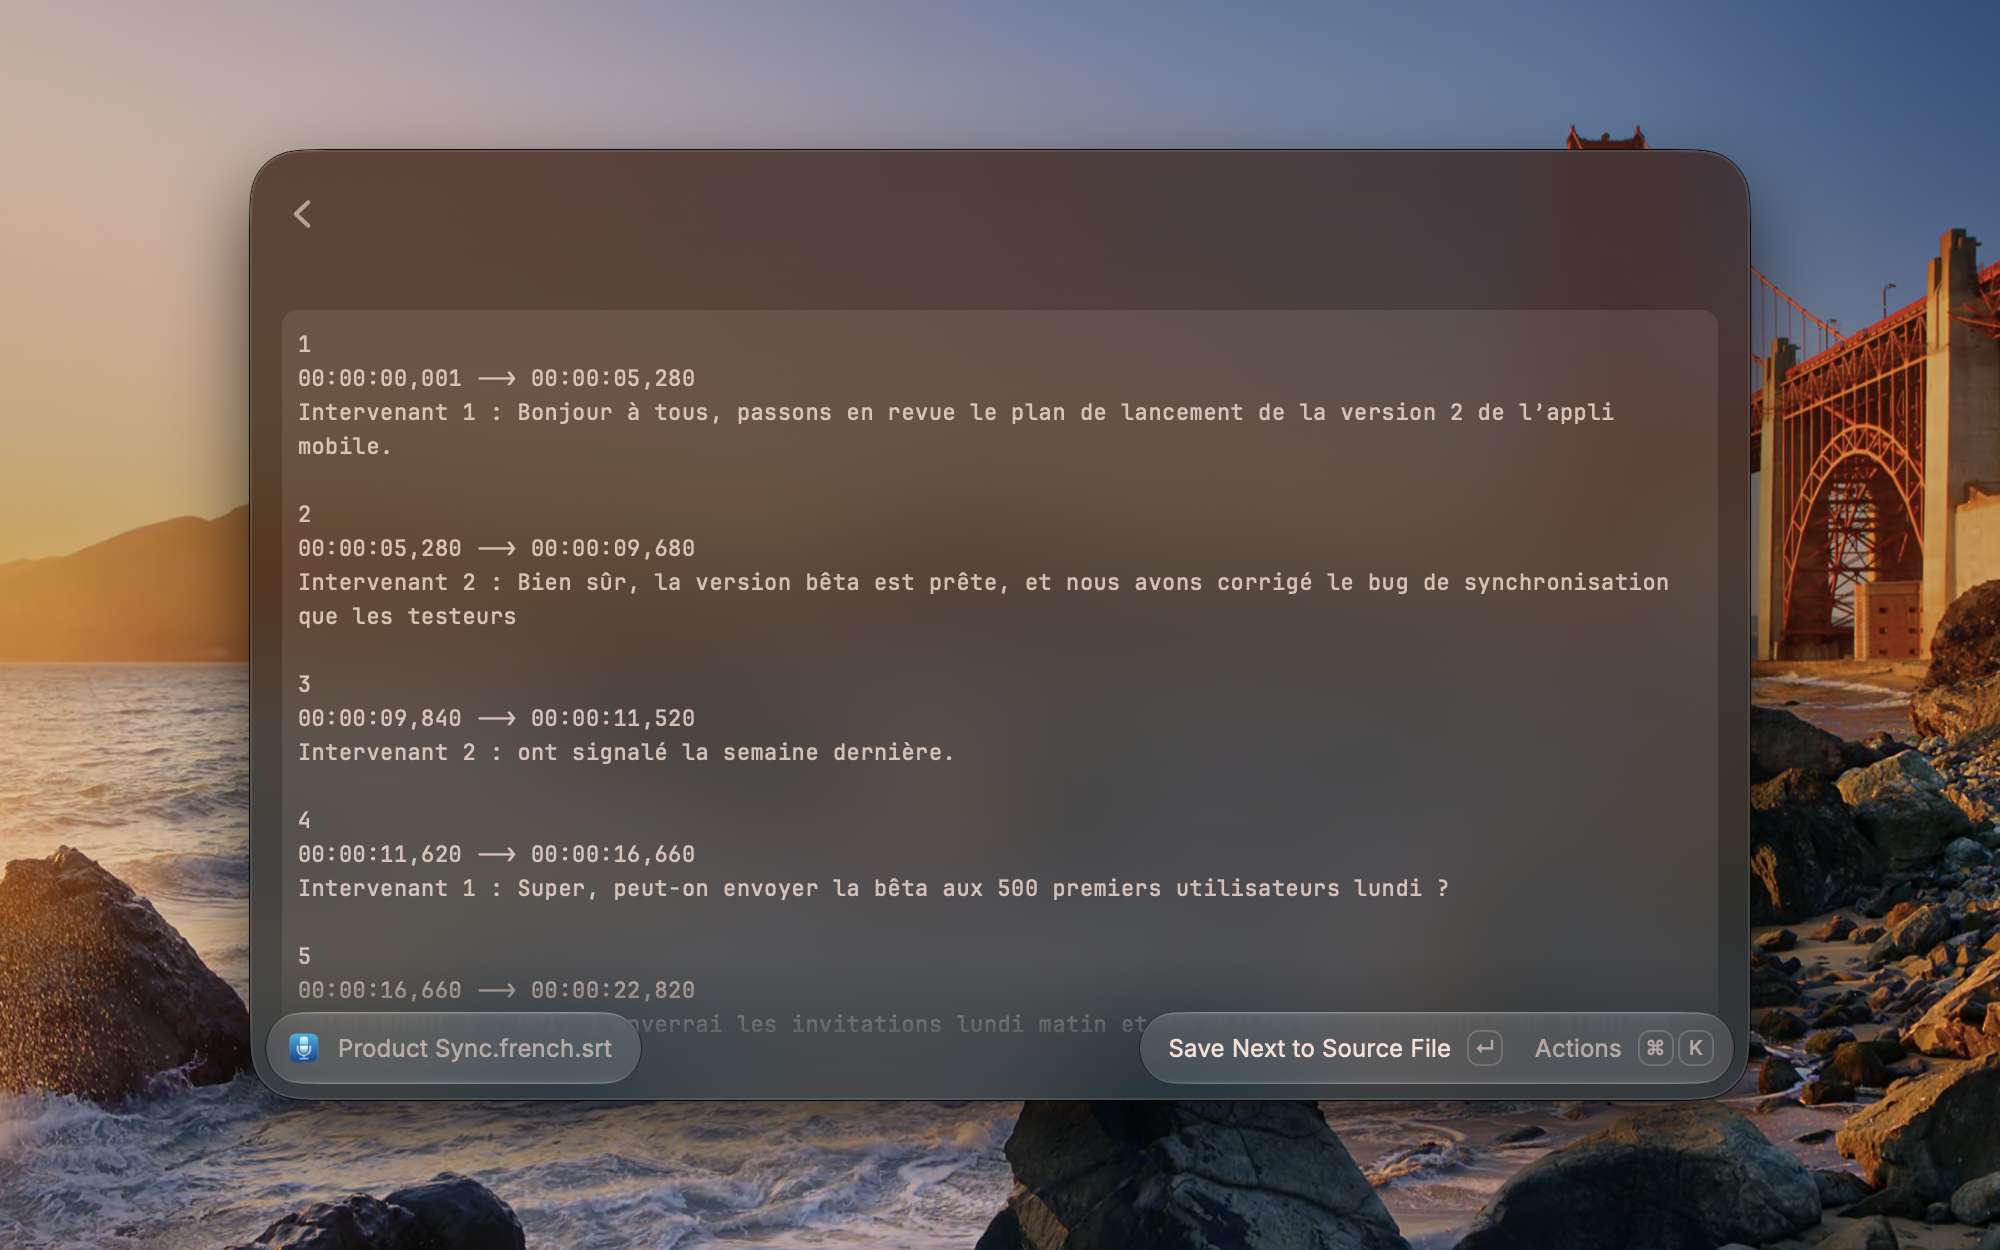
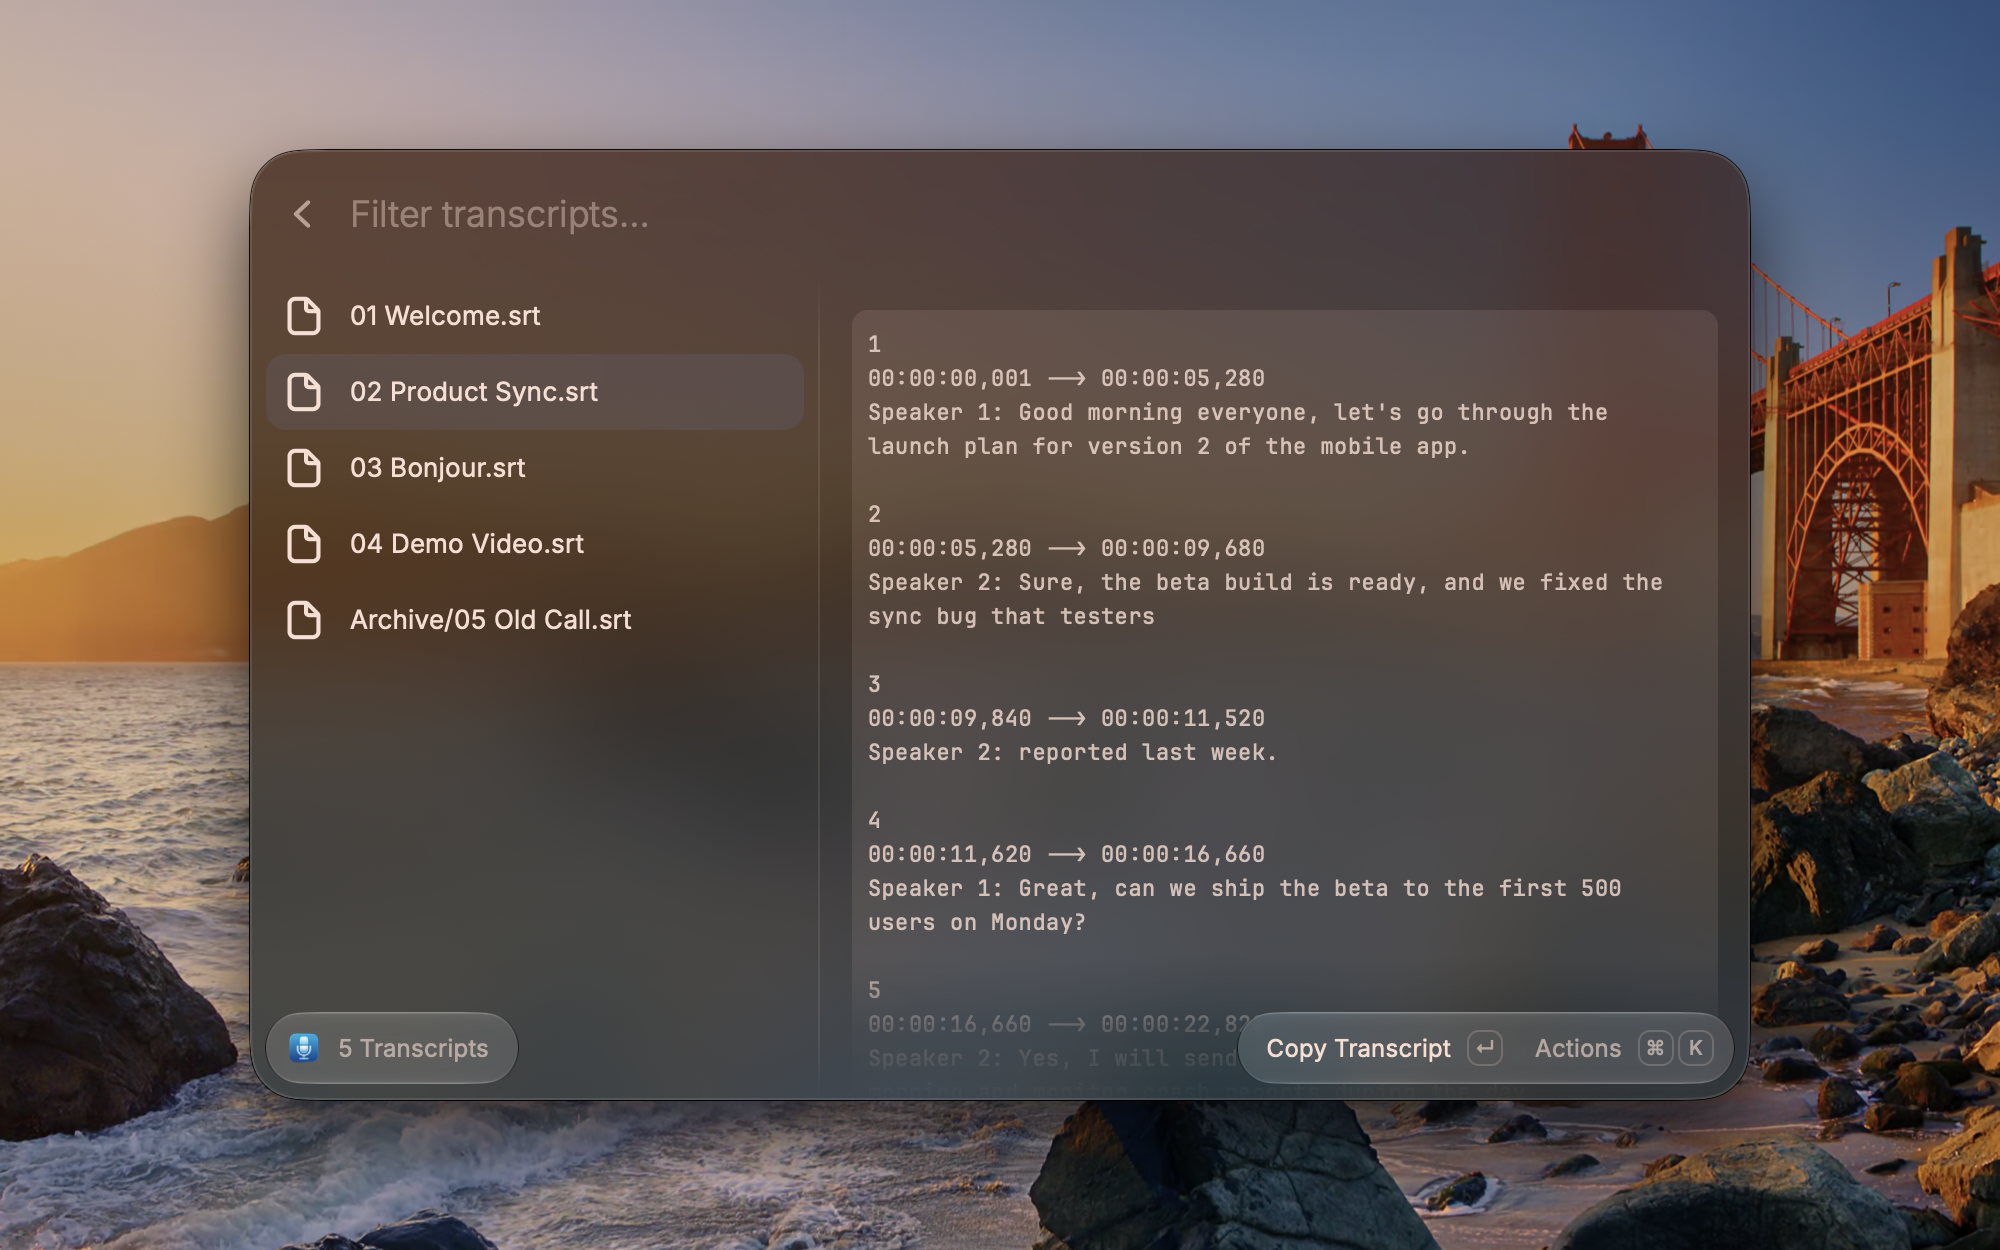
refactor: remove Translate Subtitles
MacWhisper's CLI has no translation, and looping Raycast AI requests over
subtitle chunks is what the Store review flagged. Translation stays available
through @macwhisper and the Translate task of Summarize Recording.

The AI instructions and the transcribe-audio tool now say that outputPath saves
the original-language transcript, so it is never used to save a translation.
The Store screenshot of translated subtitles is replaced by the batch results.

diff --git a/src/tools/transcribe-audio.ts b/src/tools/transcribe-audio.ts
@@ -37,6 +37,7 @@ type Input = {
   groupBySpeaker?: boolean;
   /**
    * Absolute path of a file to write the transcript to, only when the user explicitly asks to save it.
+   * Writes MacWhisper's transcript in the spoken language: never use it to save a translation.
    * Only valid when transcribing a single file.
    */
   outputPath?: string;

diff --git a/README.md b/README.md
@@ -1,6 +1,6 @@
 # MacWhisper for Raycast
 
-Transcribe audio and video files on-device with [MacWhisper](https://goodsnooze.gumroad.com/l/macwhisper) straight from Raycast: subtitles and their translation, meeting notes, chapters, AI summaries, folder watching, export presets, model switching, and Raycast AI tools.
+Transcribe audio and video files on-device with [MacWhisper](https://goodsnooze.gumroad.com/l/macwhisper) straight from Raycast: subtitles, meeting notes, chapters, AI summaries, folder watching, export presets, model switching, and Raycast AI tools.
 
 The extension is a thin wrapper around the `mw` command-line tool that ships with MacWhisper (15.11+).
 
@@ -9,7 +9,7 @@ The extension is a thin wrapper around the `mw` command-line tool that ships wit
 - macOS
 - MacWhisper 15.11 or later, with at least one downloaded model
 - The `mw` CLI, found automatically at `/usr/local/bin/mw` or inside `MacWhisper.app` wherever it is installed (override it in the preferences)
-- Raycast Pro for Summarize Recording, Translate Subtitles and the `@macwhisper` AI tools. Transcription itself runs locally and does not need Pro.
+- Raycast Pro for Summarize Recording and the `@macwhisper` AI tools. Transcription itself runs locally and does not need Pro.
 
 MacWhisper does not need to be open: `mw` starts it on demand (a few seconds on the first call) and leaves it running.
 
@@ -31,7 +31,6 @@ MacWhisper does not need to be open: `mw` starts it on demand (a few seconds on 
 | ----------------------- | --------------------------------------------------------------------------------------------------------------------------------------------------------------------------------------------------------------------------------------- |
 | **Summarize Recording** | Transcribe, then let Raycast AI write a summary, key points and decisions, action items, a translation, a follow-up email, YouTube chapters with a description, or answer a custom prompt. Choose the answer language and the AI model. |
 | **Generate Subtitles**  | SRT or VTT files next to the videos selected in Finder (format, line length and overwrite are command preferences).                                                                                                                     |
-| **Translate Subtitles** | Generate subtitles, translate the text with Raycast AI and keep every timecode, then save `name.<language>.srt`.                                                                                                                        |
 | **Export Presets**      | Saved export settings (format, style, grouping, speakers, timestamps, line length, Avid fps). Ships with presets for subtitles, meeting notes, timestamped text and Avid.                                                               |
 
 ### Models
@@ -48,7 +47,7 @@ Mention `@macwhisper` in Raycast AI:
 - `@macwhisper transcribe ~/Downloads/interview.m4a`
 - `@macwhisper summarize my latest recording`
 - `@macwhisper who said what in the recording I selected in Finder?`
-- `@macwhisper make French subtitles for ~/Movies/clip.mp4 and save them next to it`
+- `@macwhisper make French subtitles for ~/Movies/clip.mp4` (the translation is shown in the chat, timecodes kept)
 - `@macwhisper which models do I have? Switch to Whisper Large v3 Turbo`
 
 | Tool                     | Description                                                                                                                              |

diff --git a/CHANGELOG.md b/CHANGELOG.md
@@ -3,7 +3,7 @@
 ## [Initial Version] - {PR_MERGE_DATE}
 
 - Transcribe File, Transcribe Finder Selection, Transcribe Latest Recording and Batch Transcribe Folder commands; Transcribe File streams single plain-text transcripts as they are produced; Batch Transcribe Folder lists the written transcripts with a preview
-- Summarize Recording (summary, action items, translation, chapters… with Raycast AI, in the language and with the AI model of your choice), Generate Subtitles, Translate Subtitles and Export Presets (including Meeting Notes) commands
+- Summarize Recording (summary, action items, translation, chapters… with Raycast AI, in the language and with the AI model of your choice), Generate Subtitles and Export Presets (including Meeting Notes) commands
 - Watch Folder background command
 - Manage Models and Active Model (menu bar) commands
 - Raycast AI tools: transcribe audio, list recent recordings, list models, select model
